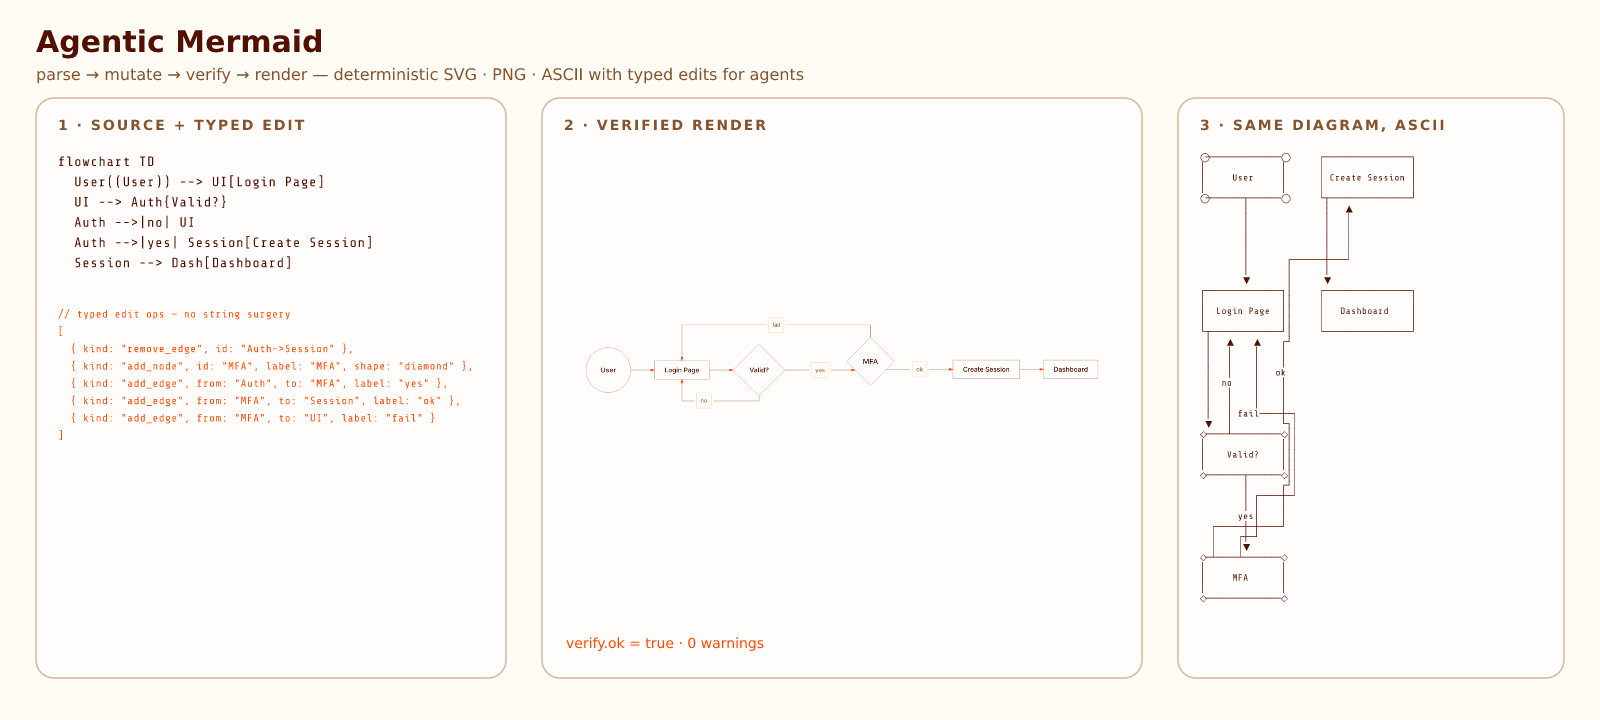
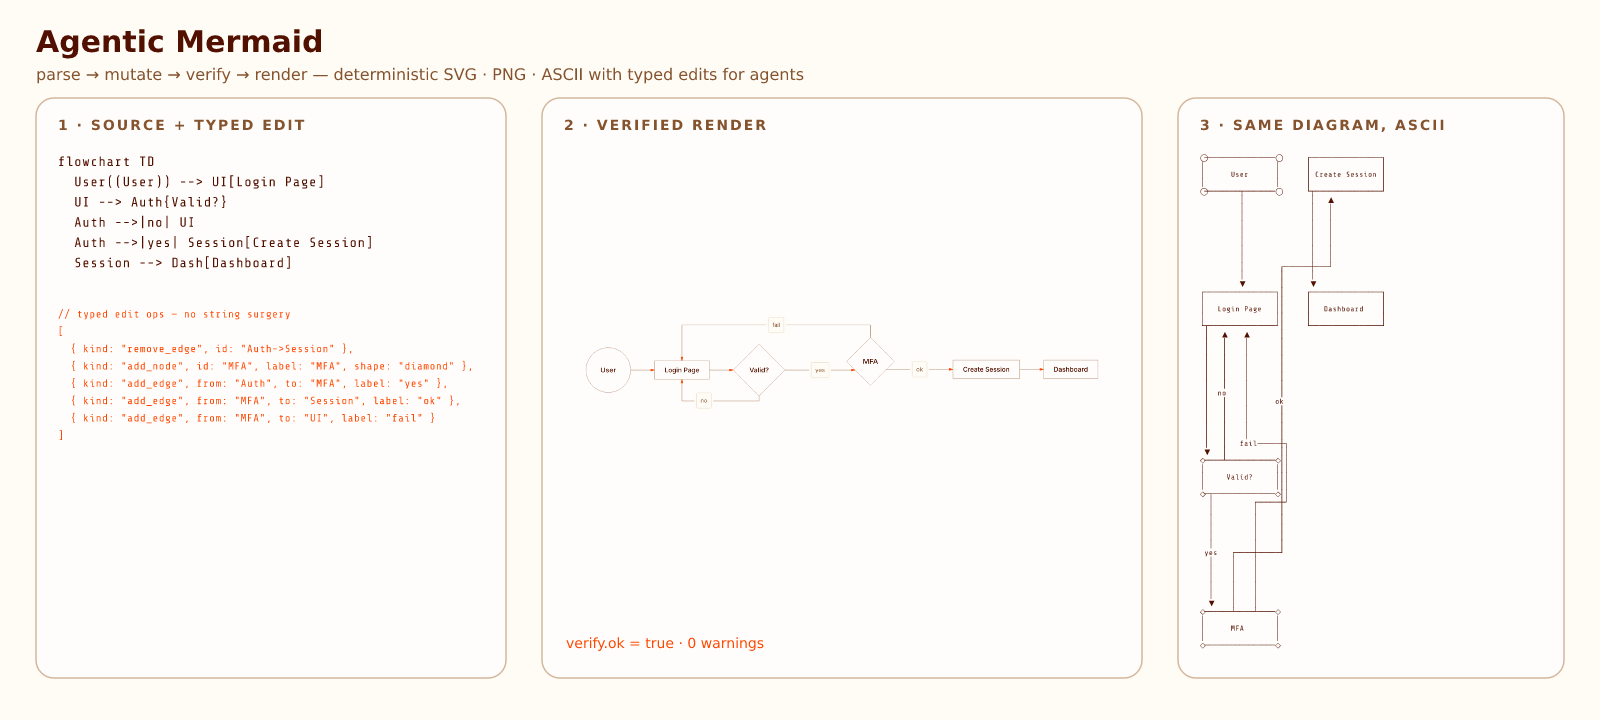
Fit the complete terminal diagram in the reviewed README hero

Changed region(s): [[0.75, 0.3361, 0.875, 0.8556], [0.75, 0.2139, 0.875, 0.3056]]

diff --git a/scripts/site/hero.ts b/scripts/site/hero.ts
@@ -121,6 +121,14 @@ const midW = 600
 const rightW = W - PAD * 4 - leftW - midW
 const midX = PAD * 2 + leftW
 const rightX = PAD * 3 + leftW + midW
+const asciiLines = asciiDiagram.trimEnd().split('\n')
+const asciiTop = 160, asciiLineHeight = 1.14
+// Correctly spaced routes can need more rows; keep the complete terminal
+// diagram inside its panel instead of clipping the final node.
+const asciiFontSize = Math.min(9,
+  (rightW - 44) / (Math.max(1, ...asciiLines.map(line => [...line].length)) * 0.6),
+  (H - 64 - asciiTop) / (asciiLines.length * asciiLineHeight),
+)
 
 const srcLines = SOURCE.split('\n')
 const opLines = [
@@ -148,7 +156,7 @@ const hero = `<svg xmlns="http://www.w3.org/2000/svg" xmlns:xlink="http://www.w3
   <text x="${midX + 24}" y="${H - 72}" font-family="DejaVu Sans Mono, monospace" font-size="14" fill="${SALMON.accent}">verify.ok = true &#183; 0 warnings</text>
 
   ${panel(rightX, rightW, '3 &#183; SAME DIAGRAM, ASCII')}
-  ${monoBlock(asciiDiagram.trimEnd().split('\n'), rightX + 22, 160, 9, SALMON.fg, 1.14)}
+  ${monoBlock(asciiLines, rightX + 22, asciiTop, asciiFontSize, SALMON.fg, asciiLineHeight)}
 </svg>`
 
 // ---- Rasterize ---------------------------------------------------------------
